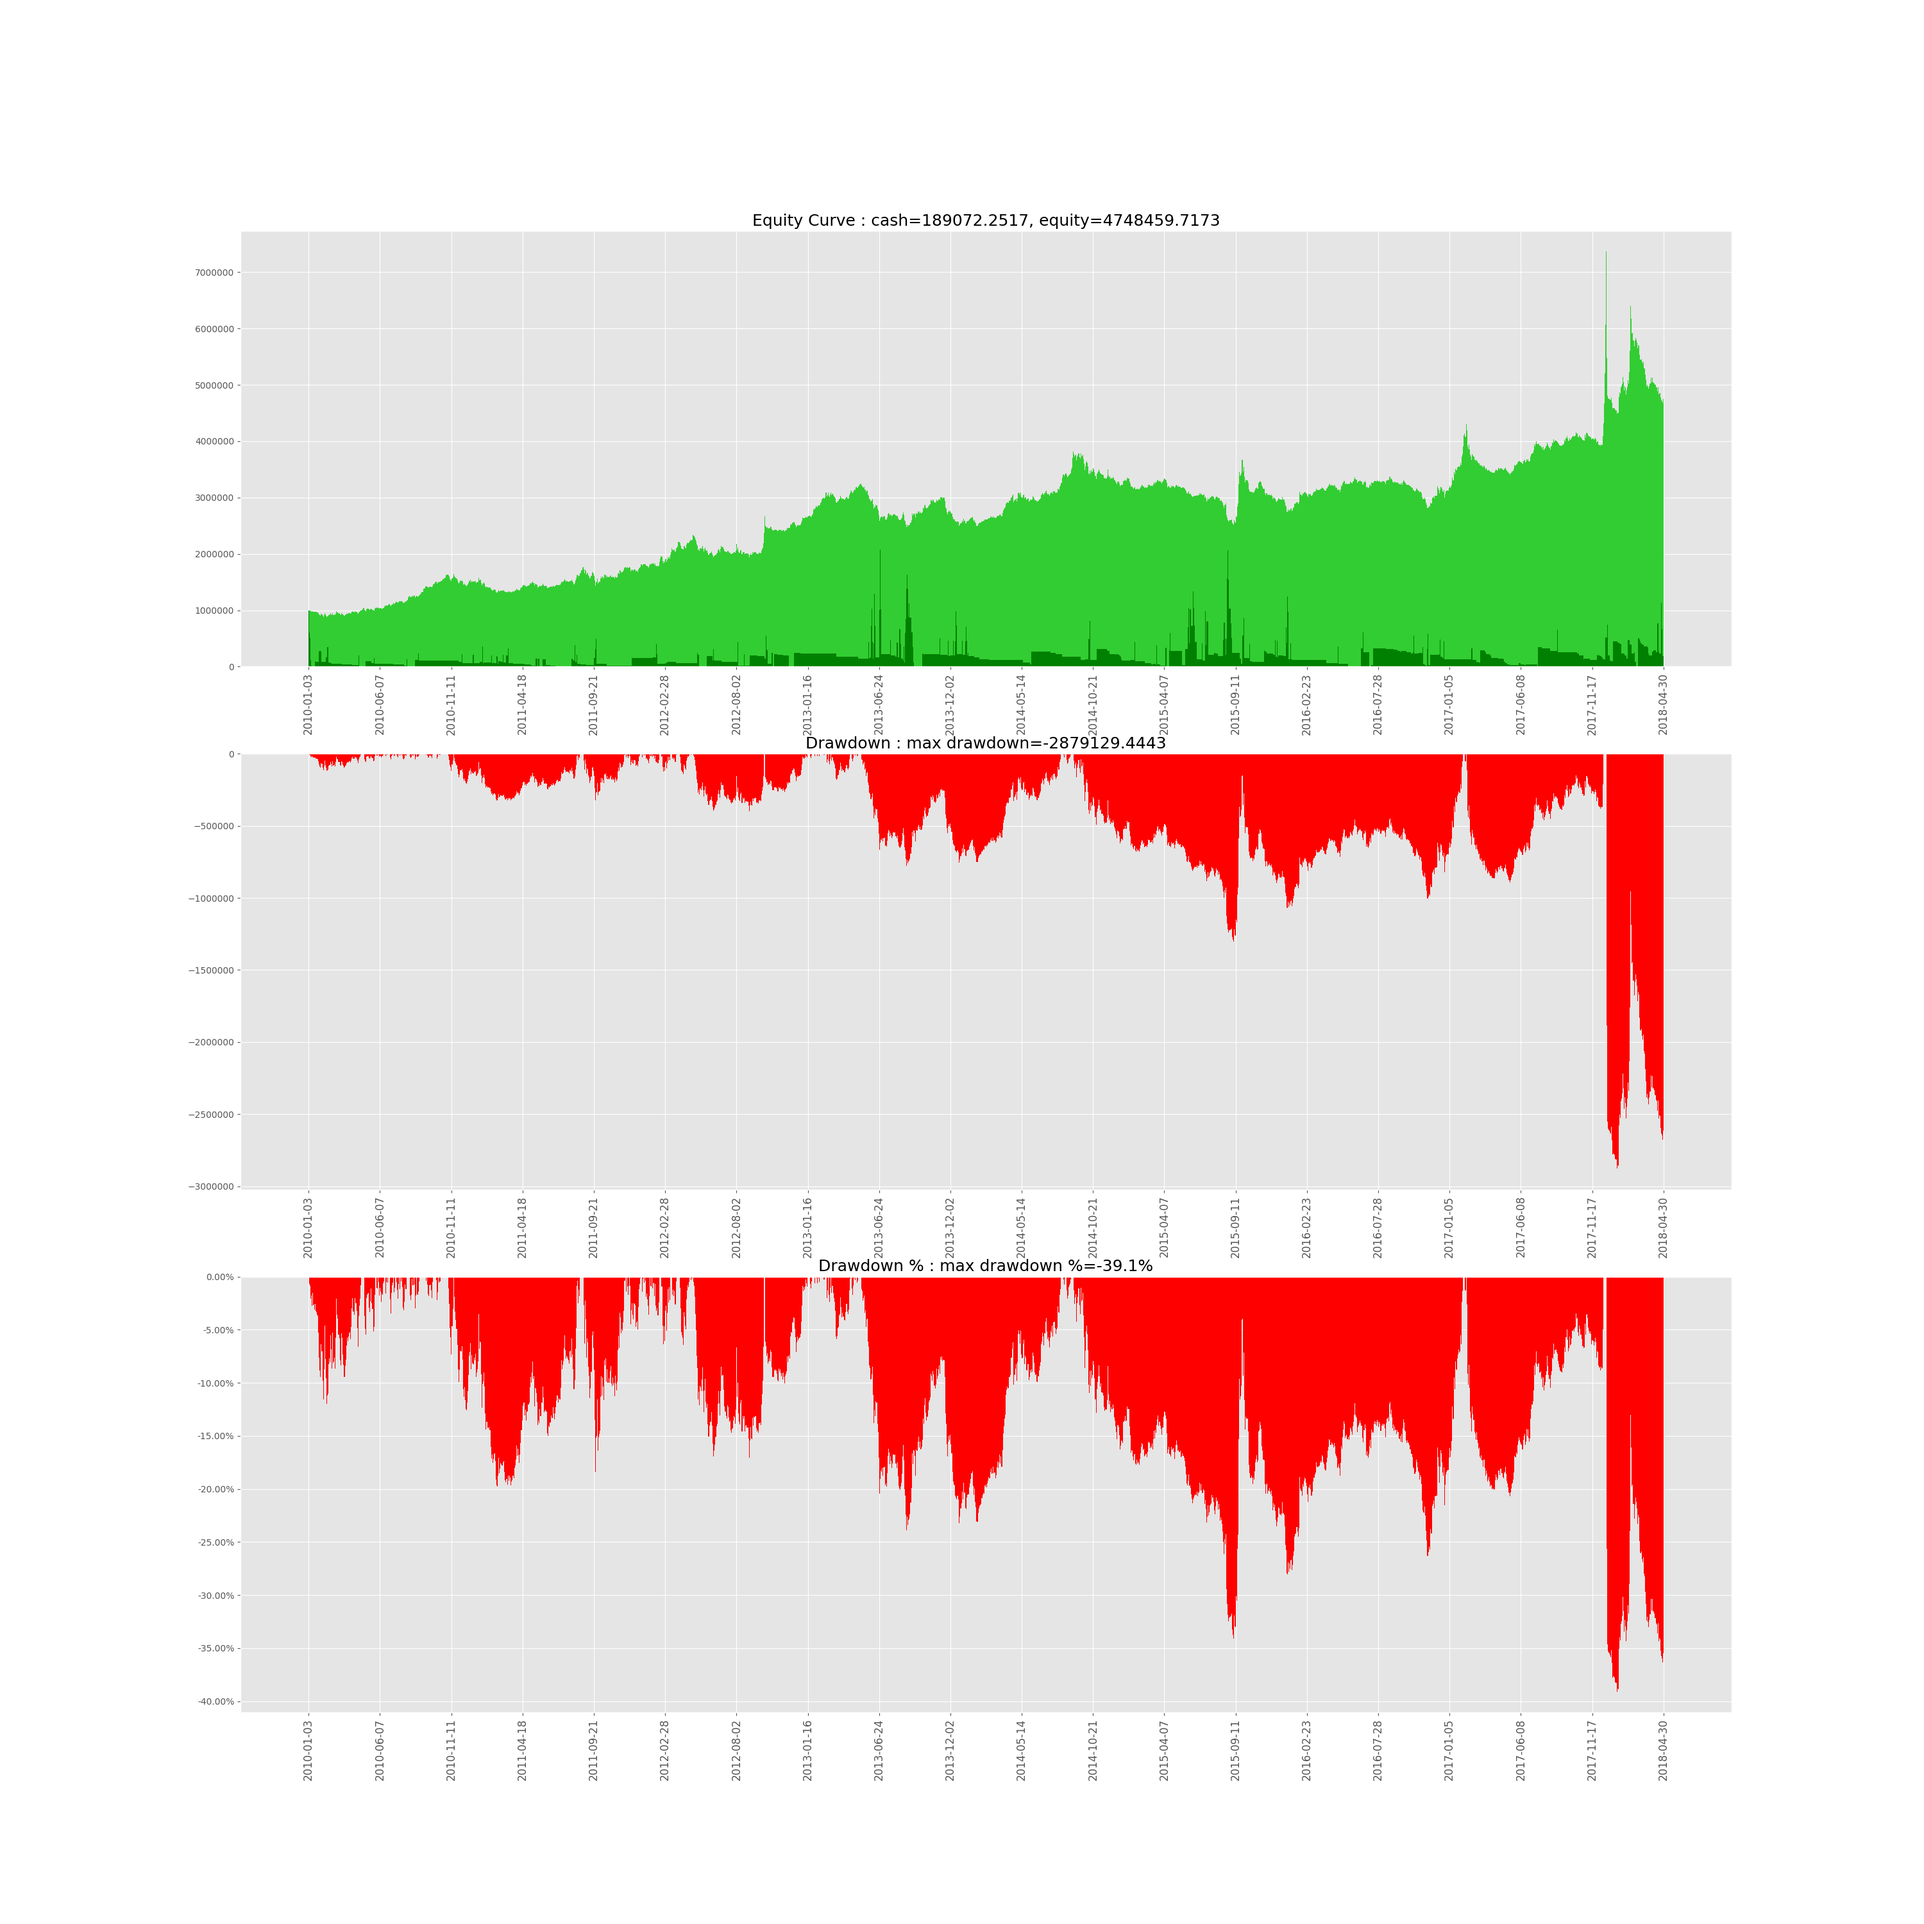
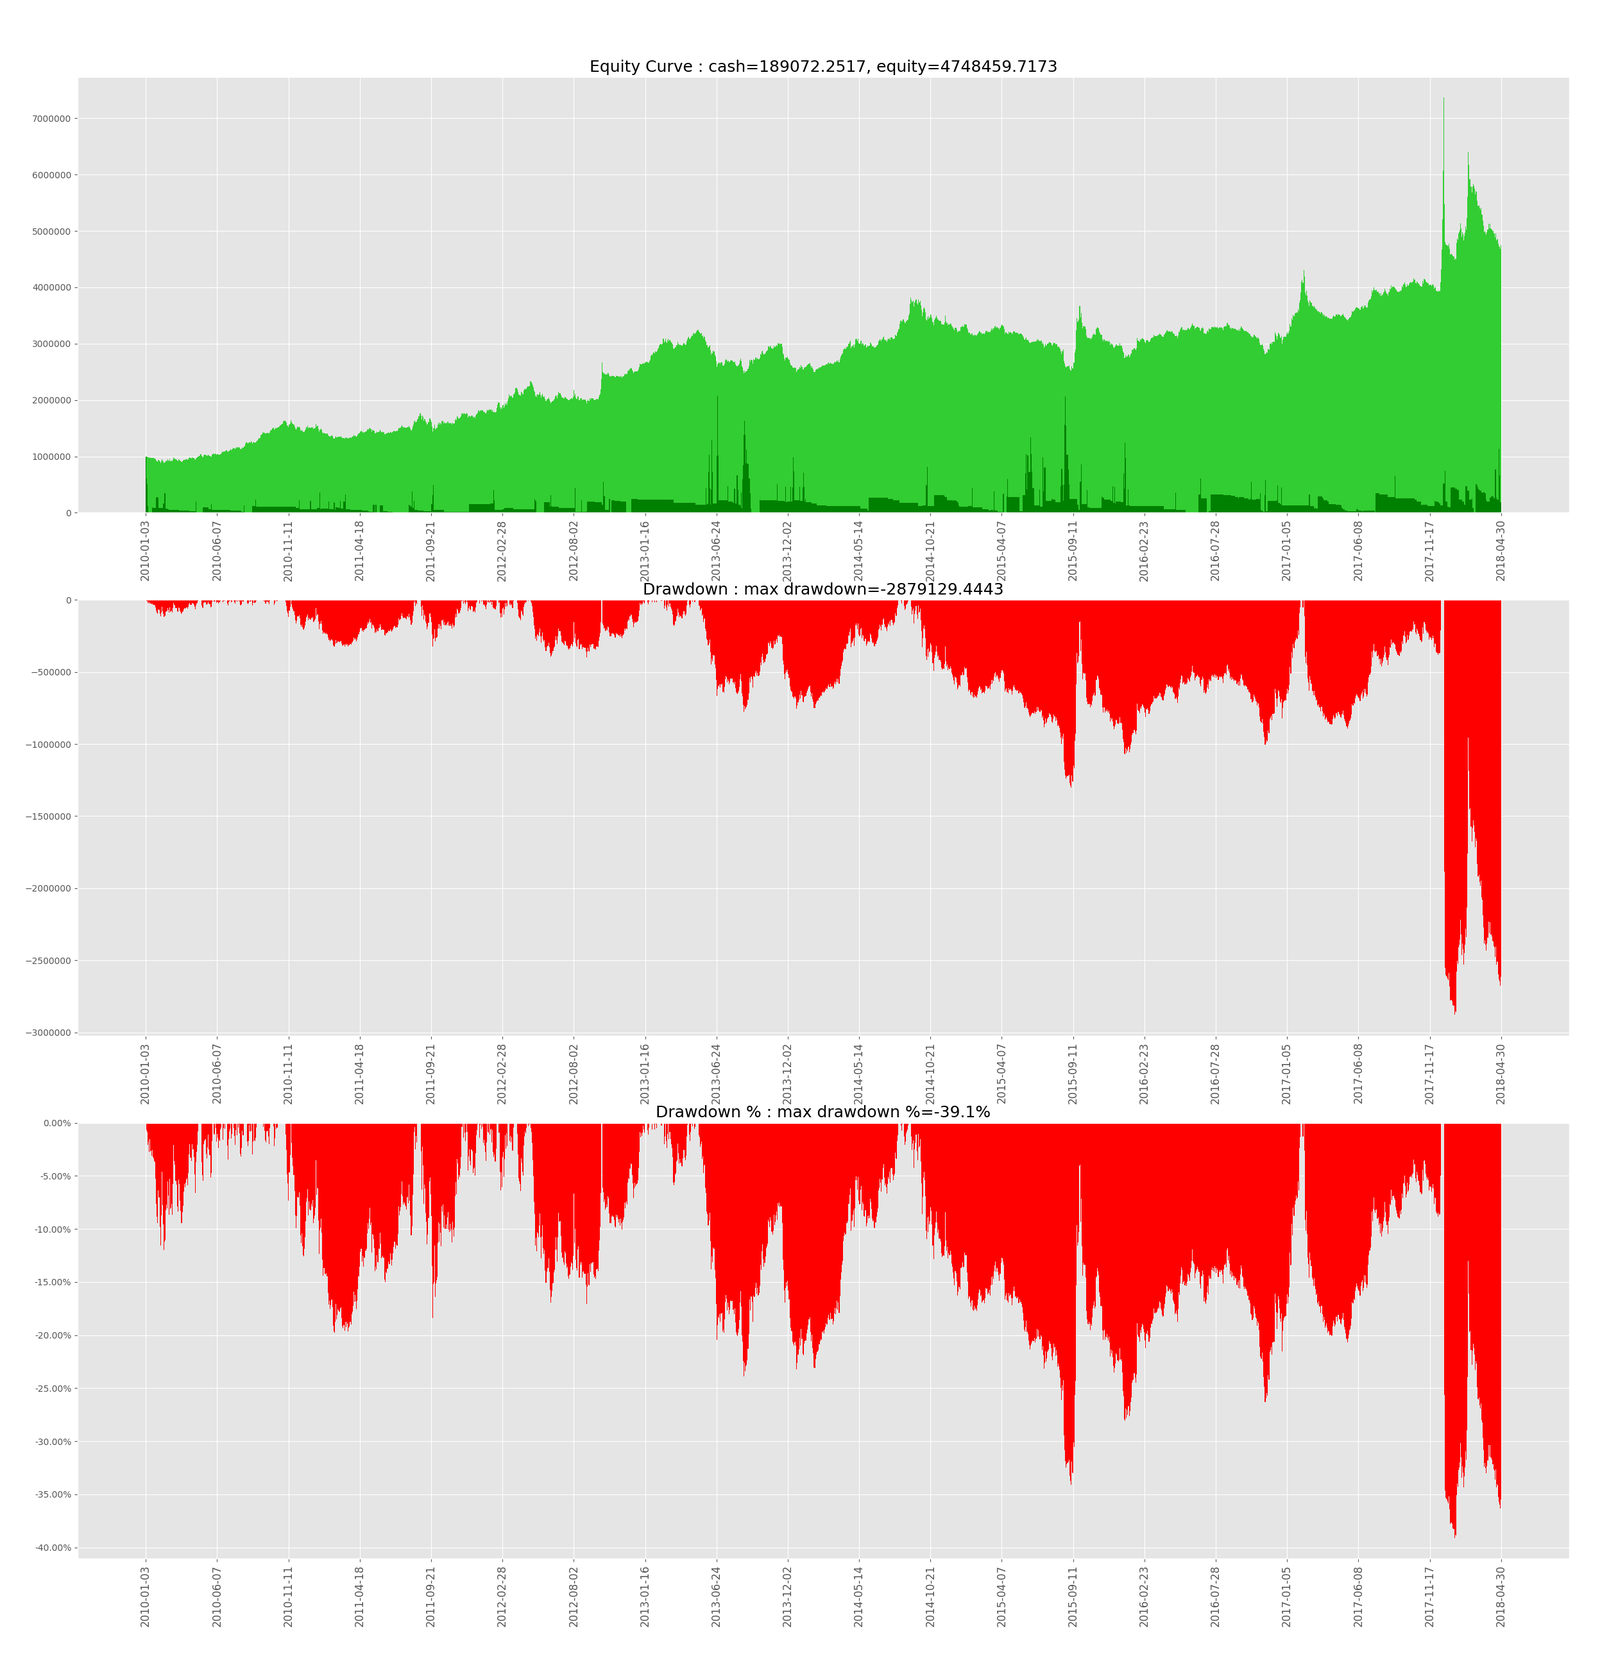
Updated README.md

diff --git a/README.md b/README.md
@@ -15,14 +15,20 @@ pycodestyle --ignore=E501 poor_trader/pse.py
 
 ## Sample Backtest Results
 
-Starting Equity:     1000000.0
-Start Date:         2010-01-04
-End Date:           2018-04-30
+#### Config 
+|                      |                        | 
+|----------------------|-----------------------:| 
+| Starting Equity      |  1000000.0             | 
+| Start Date           |  2010-01-04            | 
+| End Date             |  2018-04-30            | 
+| Total Risk Per Trade |  Running Equity * 0.02 | 
+| Unit Risk            |  Price * 0.2           | 
 
-#### Equity Curve
-![Equity Curve Chart](readme_assets/equity_curve_chart.png "Equity Curve Chart")
 
+
+#### Trades Table
 ![Trades Table](readme_assets/trades.csv "Trades Table")
+
 
 
 #### Performance Table
@@ -57,3 +63,7 @@ End Date:           2018-04-30
 | Profit Factor          | 1.58        | 
 | Payoff Ratio           | 5.24        | 
 
+
+
+#### Equity Curve
+![Equity Curve Chart](readme_assets/equity_curve_chart.png "Equity Curve Chart")
